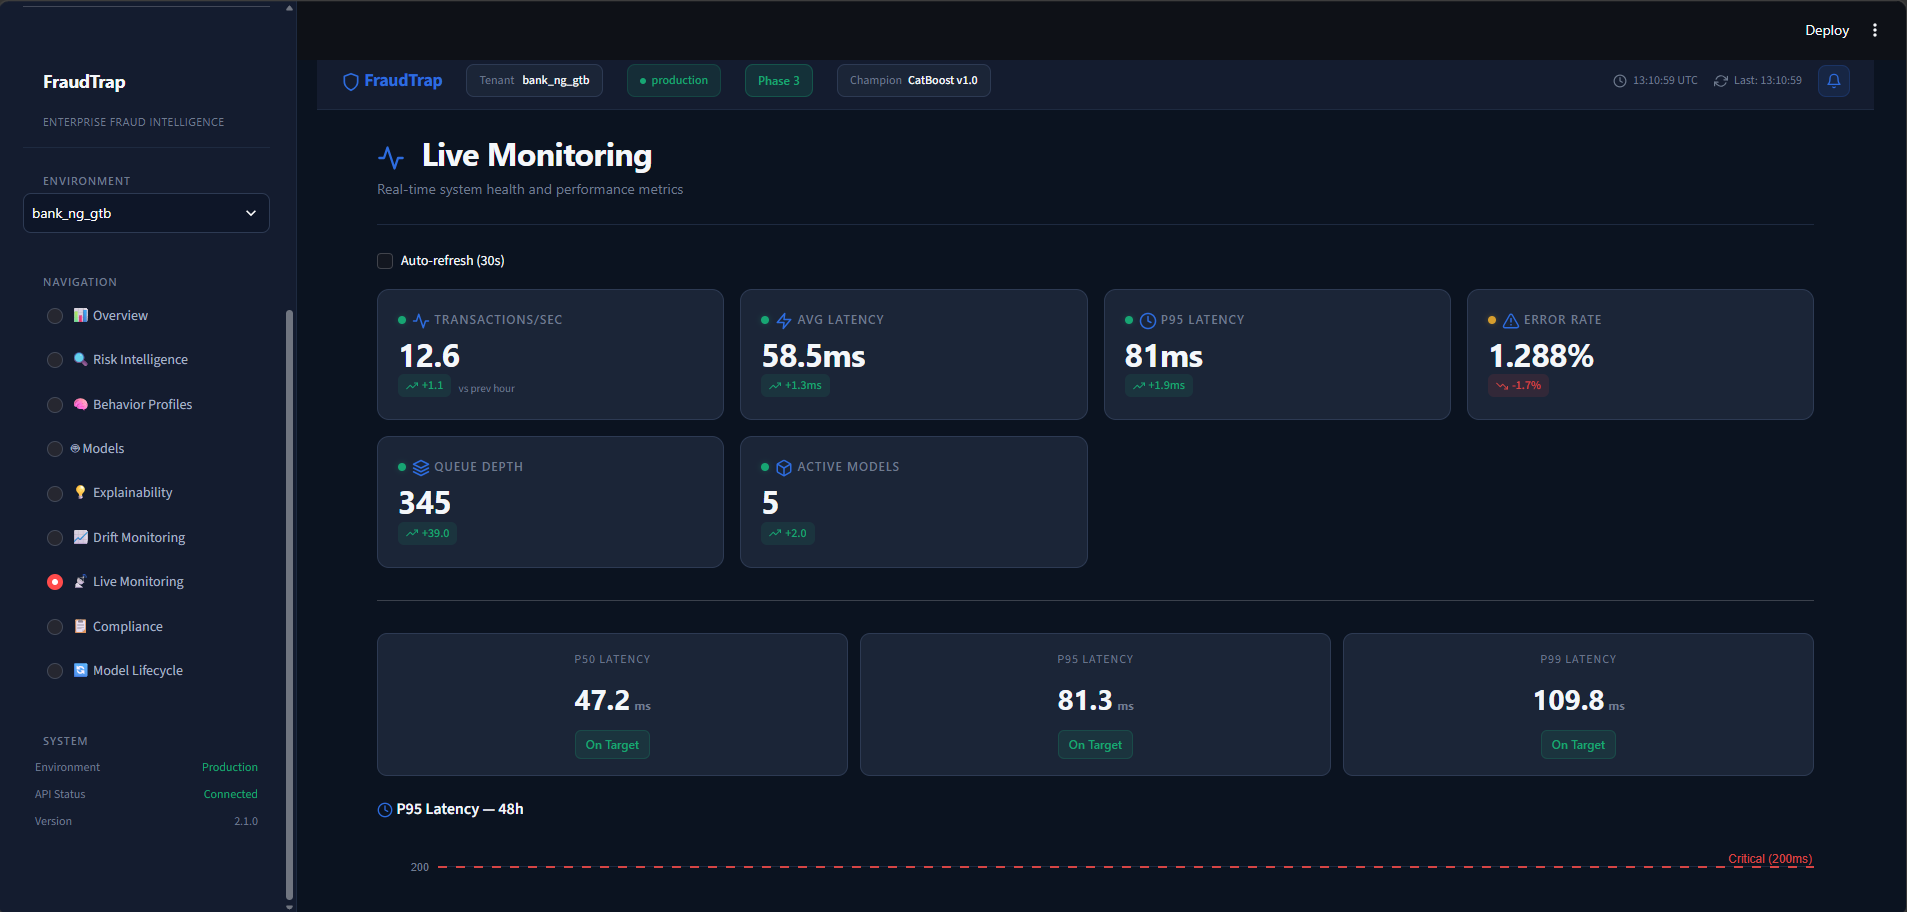
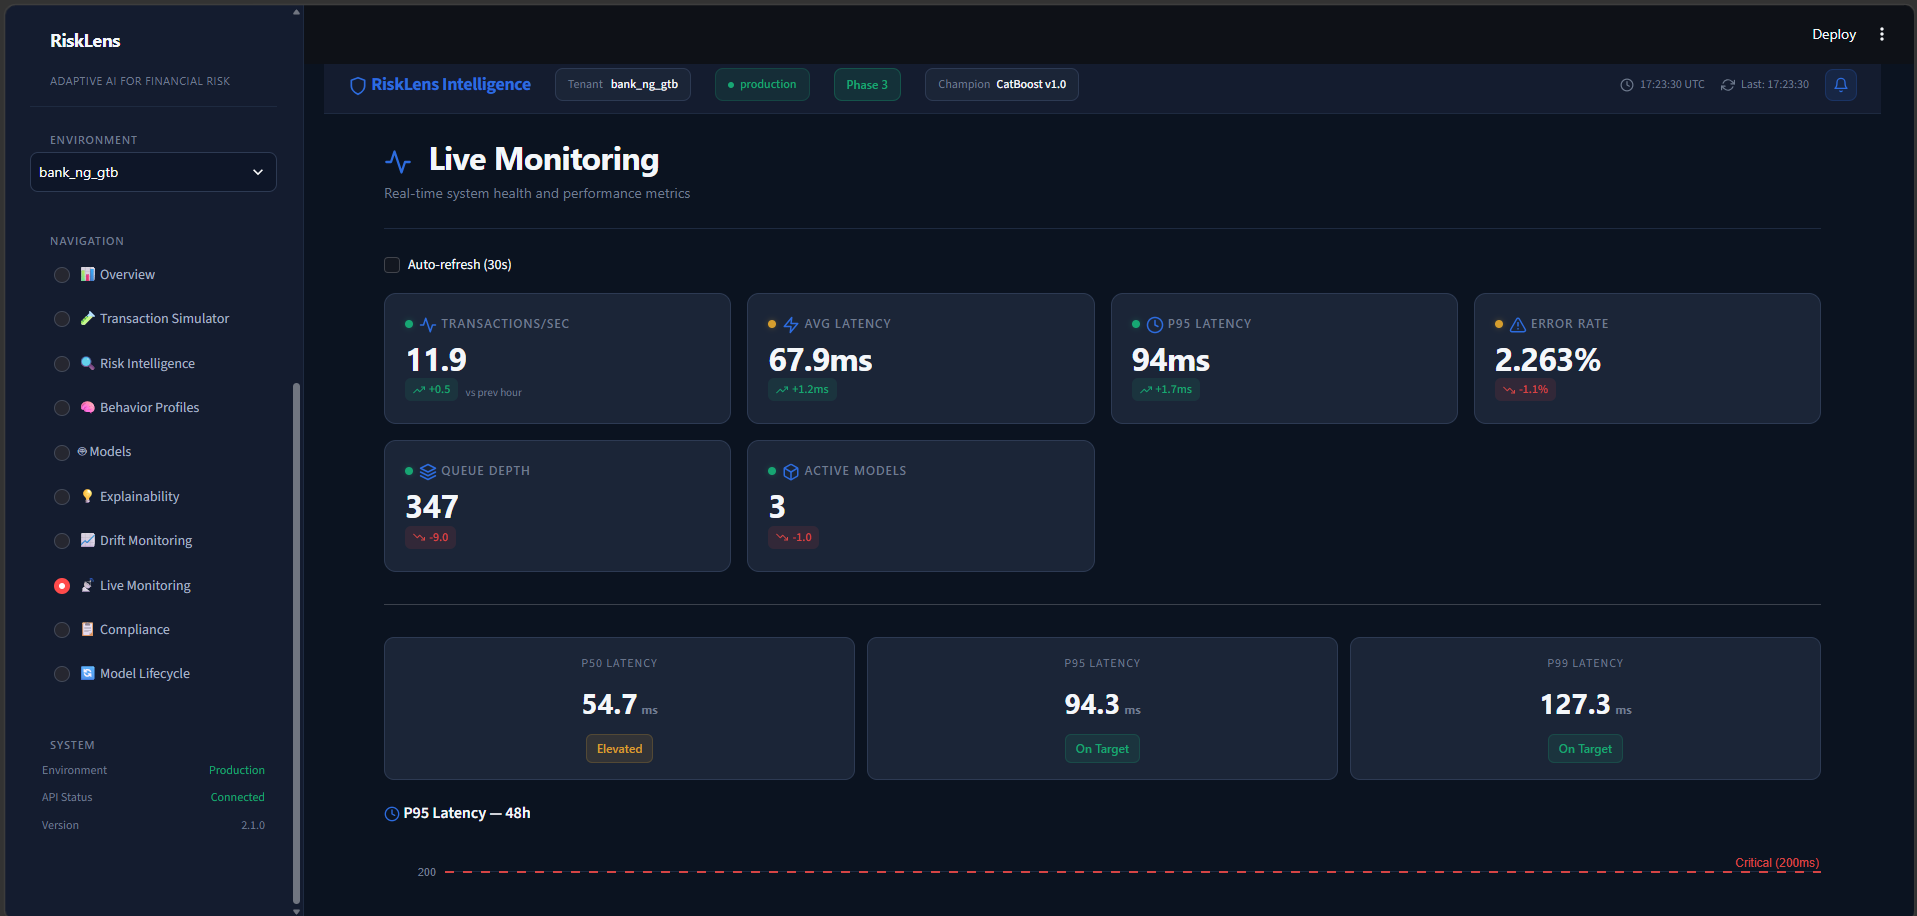
Added Dashboard Screenshots

diff --git a/README.md b/README.md
@@ -29,6 +29,9 @@ identify suspicious activity in real time.
 
 ![Dashboard Overview](docs/images/dashboard-overview.png)
 
+
+![Dashboard Overview](docs/images/dashboard-transaction-simulator.png)
+
 </div>
 
 ---
@@ -154,8 +157,8 @@ graph LR
     L3 --> L4[ML Model<br/>Router]
     L4 --> L5[Confidence<br/>Check]
     L5 --> L6[Decision<br/>Engine]
-    L6 --> L7[Audit &<br/>Profiles]
-    L7 --> L8[Dashboard &<br/>Monitoring]
+    L6 --> L7[Audit and<br/>Profiles]
+    L7 --> L8[Dashboard and<br/>Monitoring]
 ```
 
 | Layer | Component | Latency | Purpose |
@@ -201,10 +204,10 @@ graph TB
     end
 
     subgraph "ML Lifecycle: RiskLens Adaptive"
-        CS[Cold Start<br/>VAE + IF + Tail]
+        CS[Cold Start<br/>VAE IF Tail]
         AL[Adaptive Learning<br/>TabPFN]
         CB[CatBoost<br/>Champion]
-        FT[FT-Transformer<br/>Specialist]
+        FT["FT-Transformer<br/>Specialist"]
         MF[Meta Fusion]
 
         MR --> CS
@@ -251,7 +254,7 @@ sequenceDiagram
     participant Rules as Rules Engine
     participant Router as ML Router
     participant CatBoost as CatBoost Champion
-    participant FT as FT-Transformer
+    participant FT as "FT-Transformer"
     participant Decision as Decision Engine
     participant Kafka as Kafka
 
@@ -293,9 +296,9 @@ RiskLens Intelligence implements a **gated progression** from zero labels to ful
 
 ```mermaid
 graph LR
-    A["New Tenant<br/>0 Labels"] -->|"Gate 1"| B["Cold Start<br/>VAE + IF + Tail"]
+    A["New Tenant<br/>0 Labels"] -->|"Gate 1"| B["Cold Start<br/>VAE IF Tail"]
     B -->|"Gate 2"| C["RiskLens Adaptive<br/>TabPFN"]
-    C -->|"Gate 3"| D["Supervised<br/>CatBoost + FT-Transformer"]
+    C -->|"Gate 3"| D["Supervised<br/>CatBoost and FT-Transformer"]
 
     style A fill:#D69E2E,color:#000
     style B fill:#D69E2E,color:#000
@@ -495,7 +498,7 @@ graph TD
     CB --> CONF{Confidence<br/>Check}
 
     CONF -->|"> 0.85 confidence"| DEC[Decision<br/>Engine]
-    CONF -->|"< 0.85 confidence"| FT[FT-Transformer<br/>Specialist]
+    CONF -->|"< 0.85 confidence"| FT["FT-Transformer<br/>Specialist"]
 
     FT --> MF[Meta Fusion<br/>Logistic Regression]
     MF --> DEC
